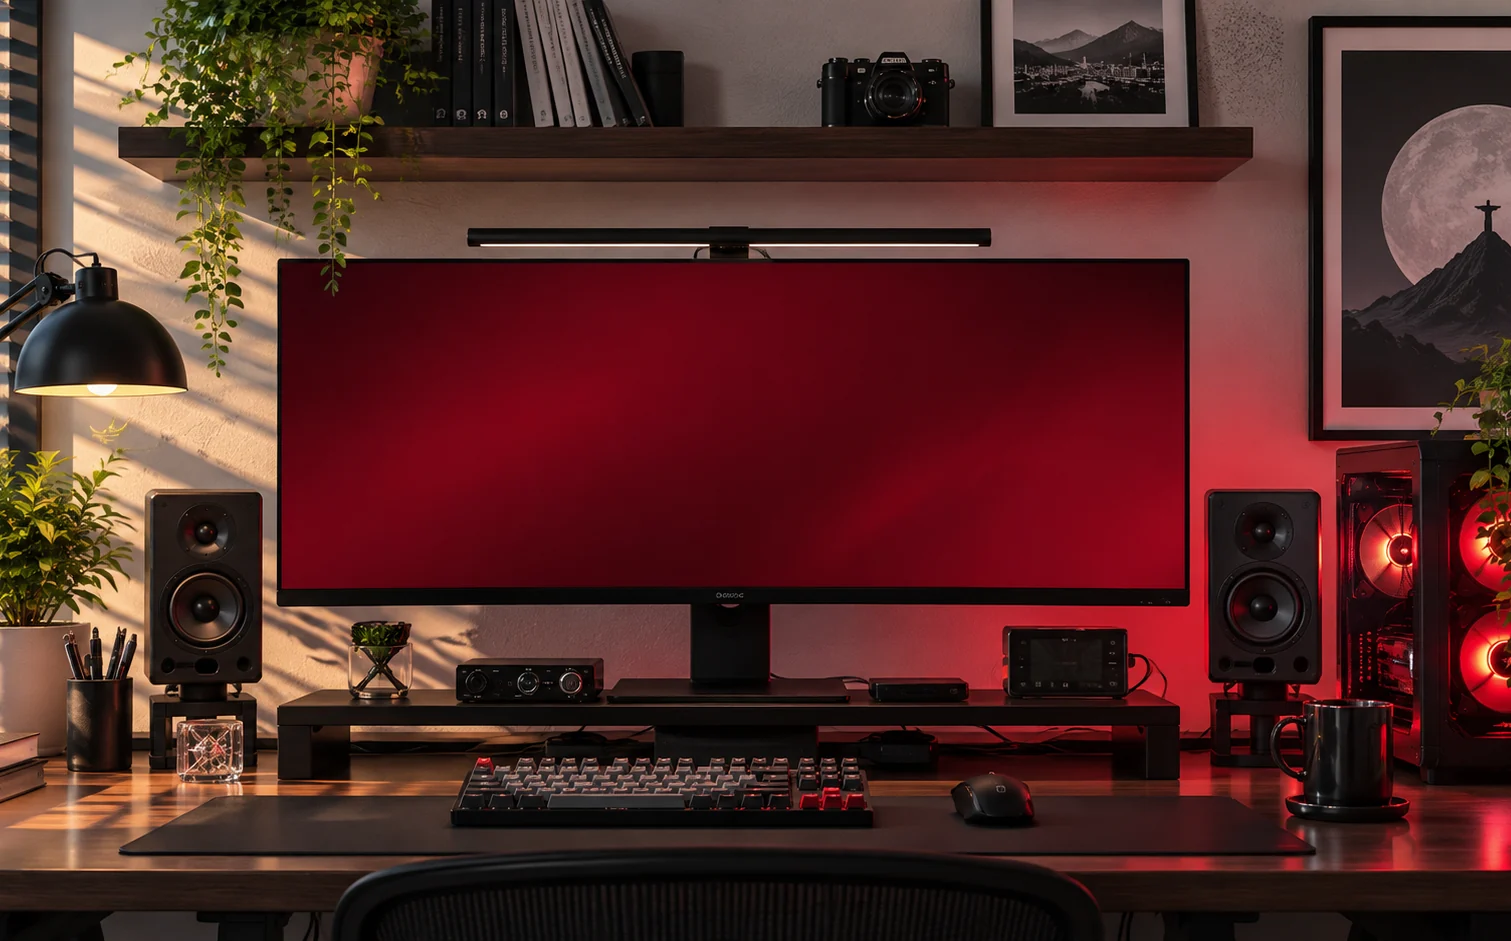
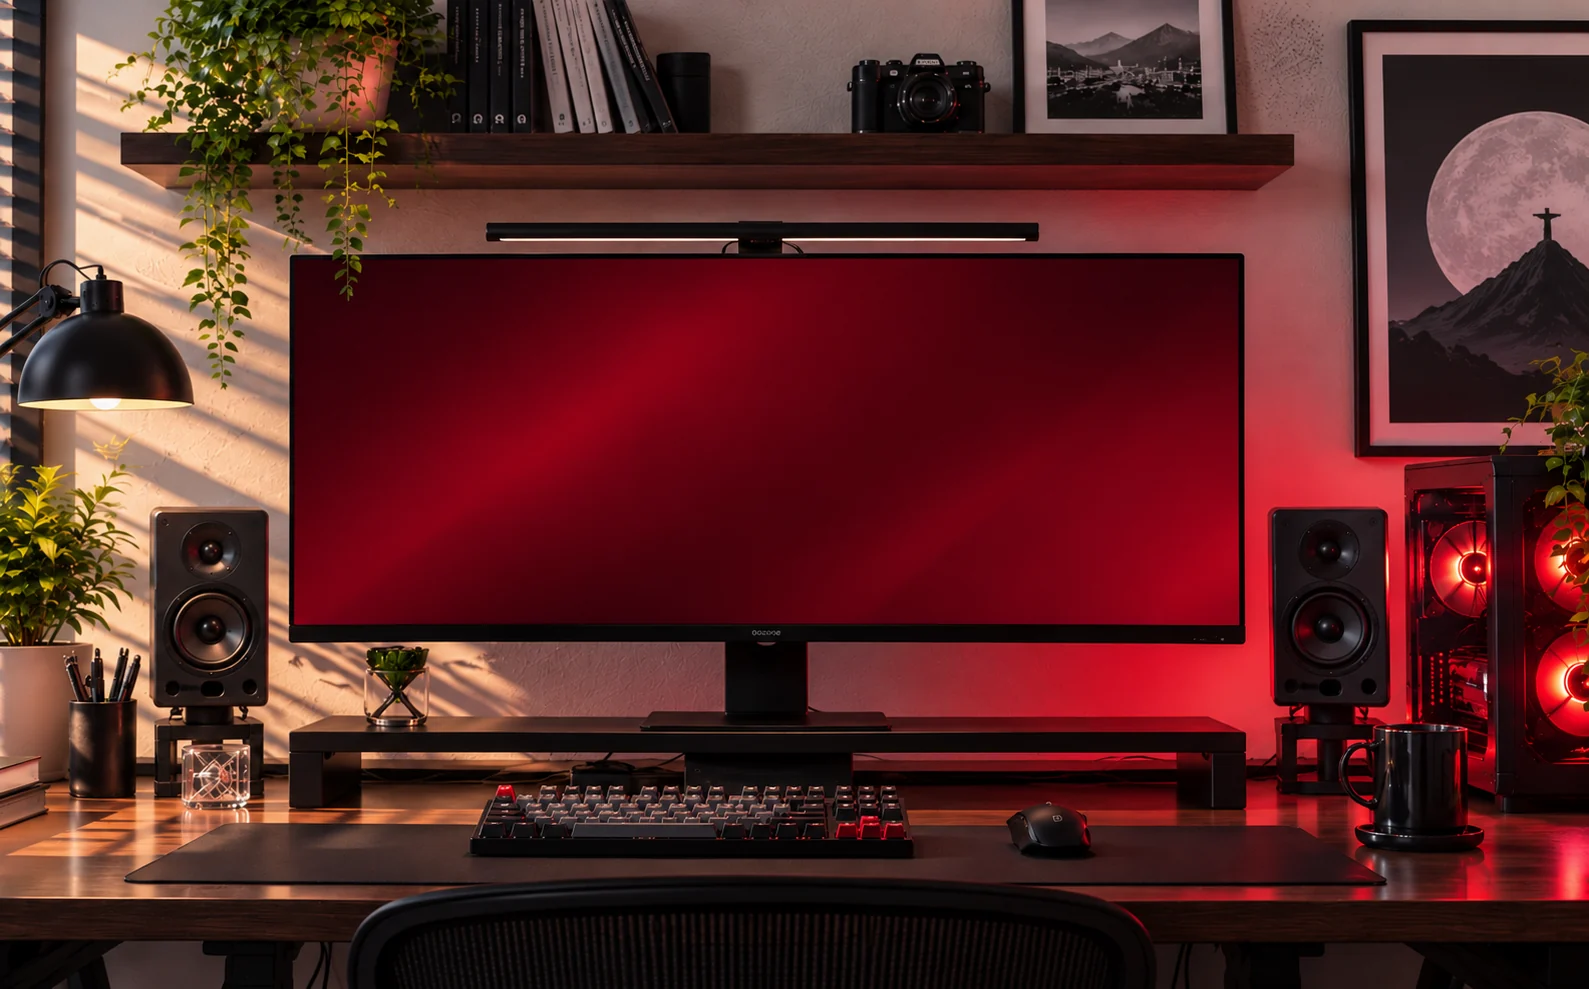
style: terminal search field in hero and new desk image

diff --git a/src/sections/Hero.jsx b/src/sections/Hero.jsx
@@ -2,6 +2,7 @@ import { useState } from 'react'
 import { ArrowRight } from '@phosphor-icons/react'
 import { content } from '@/lib/content'
 import { useHeroLayout } from '@/lib/useHeroLayout'
+import { play } from '@/lib/sounds'
 
 // Hero "mesa de trabalho": a foto ocupa a tela inteira e o texto vive DENTRO
 // do monitor. O palco (.stage) mantém a proporção da foto e cobre a tela como
@@ -30,6 +31,7 @@ export default function Hero() {
   const onSubmit = (e) => {
     e.preventDefault()
     if (editing) return
+    play('click')
     const digits = String(content.site.whatsapp).replace(/\D/g, '')
     if (!digits) { document.getElementById('contato')?.scrollIntoView({ behavior: 'smooth' }); return }
     const text = h.ctaMessage.replace('{endereco}', address)
@@ -63,11 +65,11 @@ export default function Hero() {
             <form className="address" onSubmit={onSubmit}>
               <label htmlFor="hero-name" className="sr-only">{h.addressLabel}</label>
               <span className="address-field">
-                <b className="address-prompt" aria-hidden="true">~/</b>
+                <b className="address-prompt" aria-hidden="true">{h.addressPrompt}</b>
                 <input
                   id="hero-name"
                   value={name}
-                  onChange={(e) => setName(e.target.value)}
+                  onChange={(e) => { play('key'); setName(e.target.value) }}
                   maxLength={30}
                   placeholder={h.addressPlaceholder}
                   autoComplete="off"
